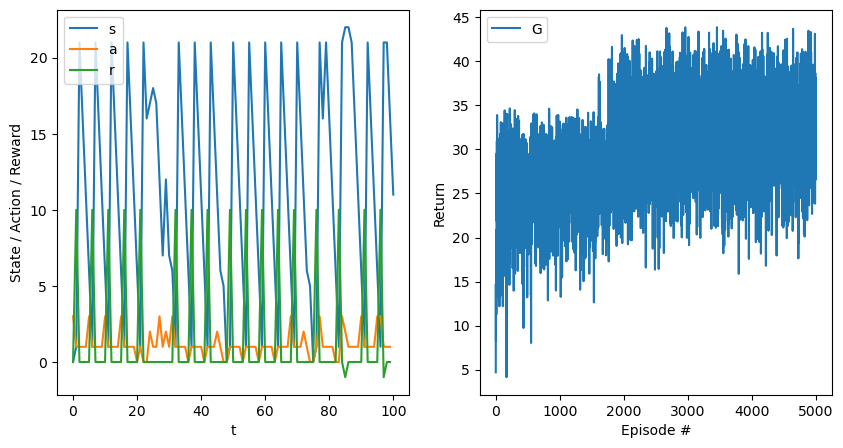
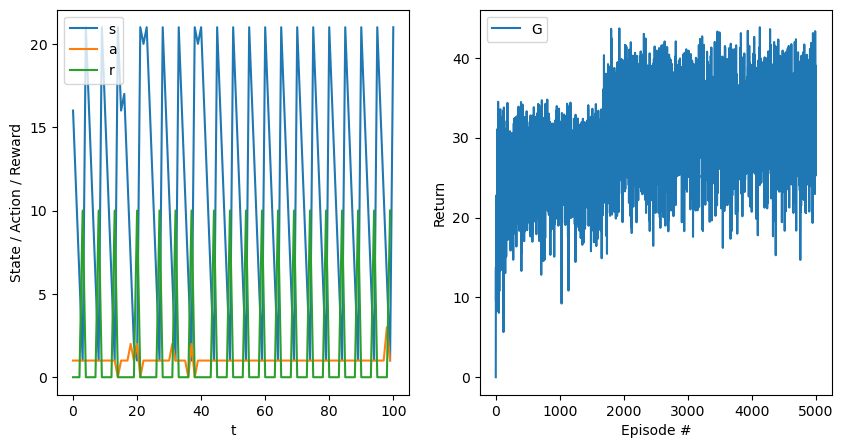
final plots ready

diff --git a/train_pendulum.py b/train_pendulum.py
@@ -26,23 +26,6 @@ def epsilon_greedy_action(Q, epsilon, s, return_best_action=False):
     random_action = np.random.uniform(0,1)
     return np.argmax(Q[s]) if random_action > epsilon else np.random.randint(0, Q.shape[1])
 
-def get_policy(Q, env):
-    # initialize policy
-    pi = np.zeros(env.num_states)
-    # Choose A from S using policy derived from Q (e.g., "-greedy)
-    for s in range(env.num_states):
-        q_max_prev = None
-        action_good = [] # list of actions with same q_max
-        for a in range(env.num_actions):
-            if q_max_prev is None or Q[s, a] > q_max_prev:
-                action_good = [a]
-                q_max_prev = Q[s, a]
-            elif Q[s, a] == q_max_prev:
-                action_good.append(a)
-        good_prob = 1 / len(action_good)
-        pi[s] = np.argmax([good_prob if a in action_good else 0 for a in range(env.num_actions)])
-    return pi
-
 def pendulum_sarsa(n_theta, n_thetadot, n_tau, alpha, epsilon, num_episodes=100, gamma=0.95, verbose=False, plot=False):
     # sourcery skip: extract-duplicate-method
     if verbose:
@@ -92,8 +75,7 @@ def pendulum_sarsa(n_theta, n_thetadot, n_tau, alpha, epsilon, num_episodes=100,
             G += r*gamma**n_iter
             n_iter += 1
         log['G'].append(G)
-    pi = get_policy(Q, env)
-    # pi = np.argmax(Q, axis=1)
+    pi = np.argmax(Q, axis=1)
     if verbose:
         print(f'Q: \n {Q}')
         print(f'pi: \n {pi.reshape(n_theta, n_thetadot)}')
@@ -174,8 +156,7 @@ def pendulum_q_learning(n_theta, n_thetadot, n_tau, alpha, epsilon, num_episodes
             G += r*gamma**n_iter
             n_iter += 1
         log['G'].append(G)
-    pi = get_policy(Q, env)
-    # pi = np.argmax(Q, axis=1)
+    pi = np.argmax(Q, axis=1)
     if verbose:
         print(f'Q: \n {Q}')
         print(f'pi: \n {pi.reshape(n_theta, n_thetadot)}')
@@ -285,9 +266,26 @@ def pendulum_td0(n_theta, n_thetadot, n_tau, pi, alpha, num_episodes=100, gamma=
         plt.savefig(f'figures/pendulum/traj_return_td0_{method}.png', bbox_inches='tight')
     return V, log
 
+def plot_policy_value_function(V, pi, method):
+    # sourcery skip: extract-duplicate-method
+    plt.figure(figsize=(10, 5), dpi=100)
+    plt.subplot(1, 2, 1)
+    plt.plot(np.arange(len(V)), V, '.', label='V')
+    plt.xlabel('State')
+    plt.ylabel('Value')
+    plt.legend()
+
+    plt.subplot(1, 2, 2)
+    plt.plot(np.arange(len(pi)), pi, '.', label='pi')
+    plt.xlabel('State')
+    plt.ylabel('Action')
+    plt.legend()
+    plt.savefig(f'figures/pendulum/V_pi_{method}.png', bbox_inches='tight')
+    return None
+
 def plot_diff_epsilon_alpha(n_theta, n_thetadot, n_tau, method, num_episodes=100, gamma=0.95):
     # sourcery skip: extract-duplicate-method
-    alpha_nom = 0.5
+    alpha_nom = 0.3
     alpha_min = 0.1
     alpha_max = 1.0
     alpha_step = 0.1
@@ -296,7 +294,7 @@ def plot_diff_epsilon_alpha(n_theta, n_thetadot, n_tau, method, num_episodes=100
 
     epsilon_nom = 0.8
     epsilon_min_power = -10
-    epsilon_max_power = -1
+    epsilon_max_power = 0
     epsilon_num_steps = int(epsilon_max_power - epsilon_min_power) + 1
     epsilon_arr = np.logspace(epsilon_min_power, epsilon_max_power, epsilon_num_steps)
 
@@ -347,10 +345,12 @@ def main():
     num_episodes = 3000
     Q, pi, log = pendulum_sarsa(n_theta, n_thetadot, n_tau, alpha, epsilon, num_episodes=num_episodes, gamma=gamma, verbose=verbose, plot=True)
     V, log = pendulum_td0(n_theta, n_thetadot, n_tau, pi, alpha, num_episodes=num_episodes, gamma=gamma, verbose=verbose, method='sarsa', plot=True)
+    plot_policy_value_function(V, pi, method='sarsa')
     plot_diff_epsilon_alpha(n_theta, n_thetadot, n_tau, method='sarsa', num_episodes=num_episodes, gamma=gamma)
     
     Q, pi, log = pendulum_q_learning(n_theta, n_thetadot, n_tau, alpha, epsilon, num_episodes=num_episodes, gamma=gamma, verbose=verbose, plot=True)
     V, log = pendulum_td0(n_theta, n_thetadot, n_tau, pi, alpha, num_episodes=num_episodes, gamma=gamma, verbose=verbose, method='q_learning', plot=True)
+    plot_policy_value_function(V, pi, method='q_learning')
     plot_diff_epsilon_alpha(n_theta, n_thetadot, n_tau, method='q_learning', num_episodes=num_episodes, gamma=gamma)
 
 if __name__ == '__main__':

diff --git a/train_gridworld.py b/train_gridworld.py
@@ -19,10 +19,10 @@ def gridworld_policy_iteration(hard_version, theta=1e-16, gamma=0.95, verbose=Fa
     pi = 0*np.ones(env.num_states, dtype=int)
 
     log = {'n_iter': [], 'V': []}
+    n_iter = 0
     while True:
         # Step 2: policy evaluation
         delta = np.inf
-        n_iter = 0
         while delta >= theta:
             n_iter += 1
             delta = 0
